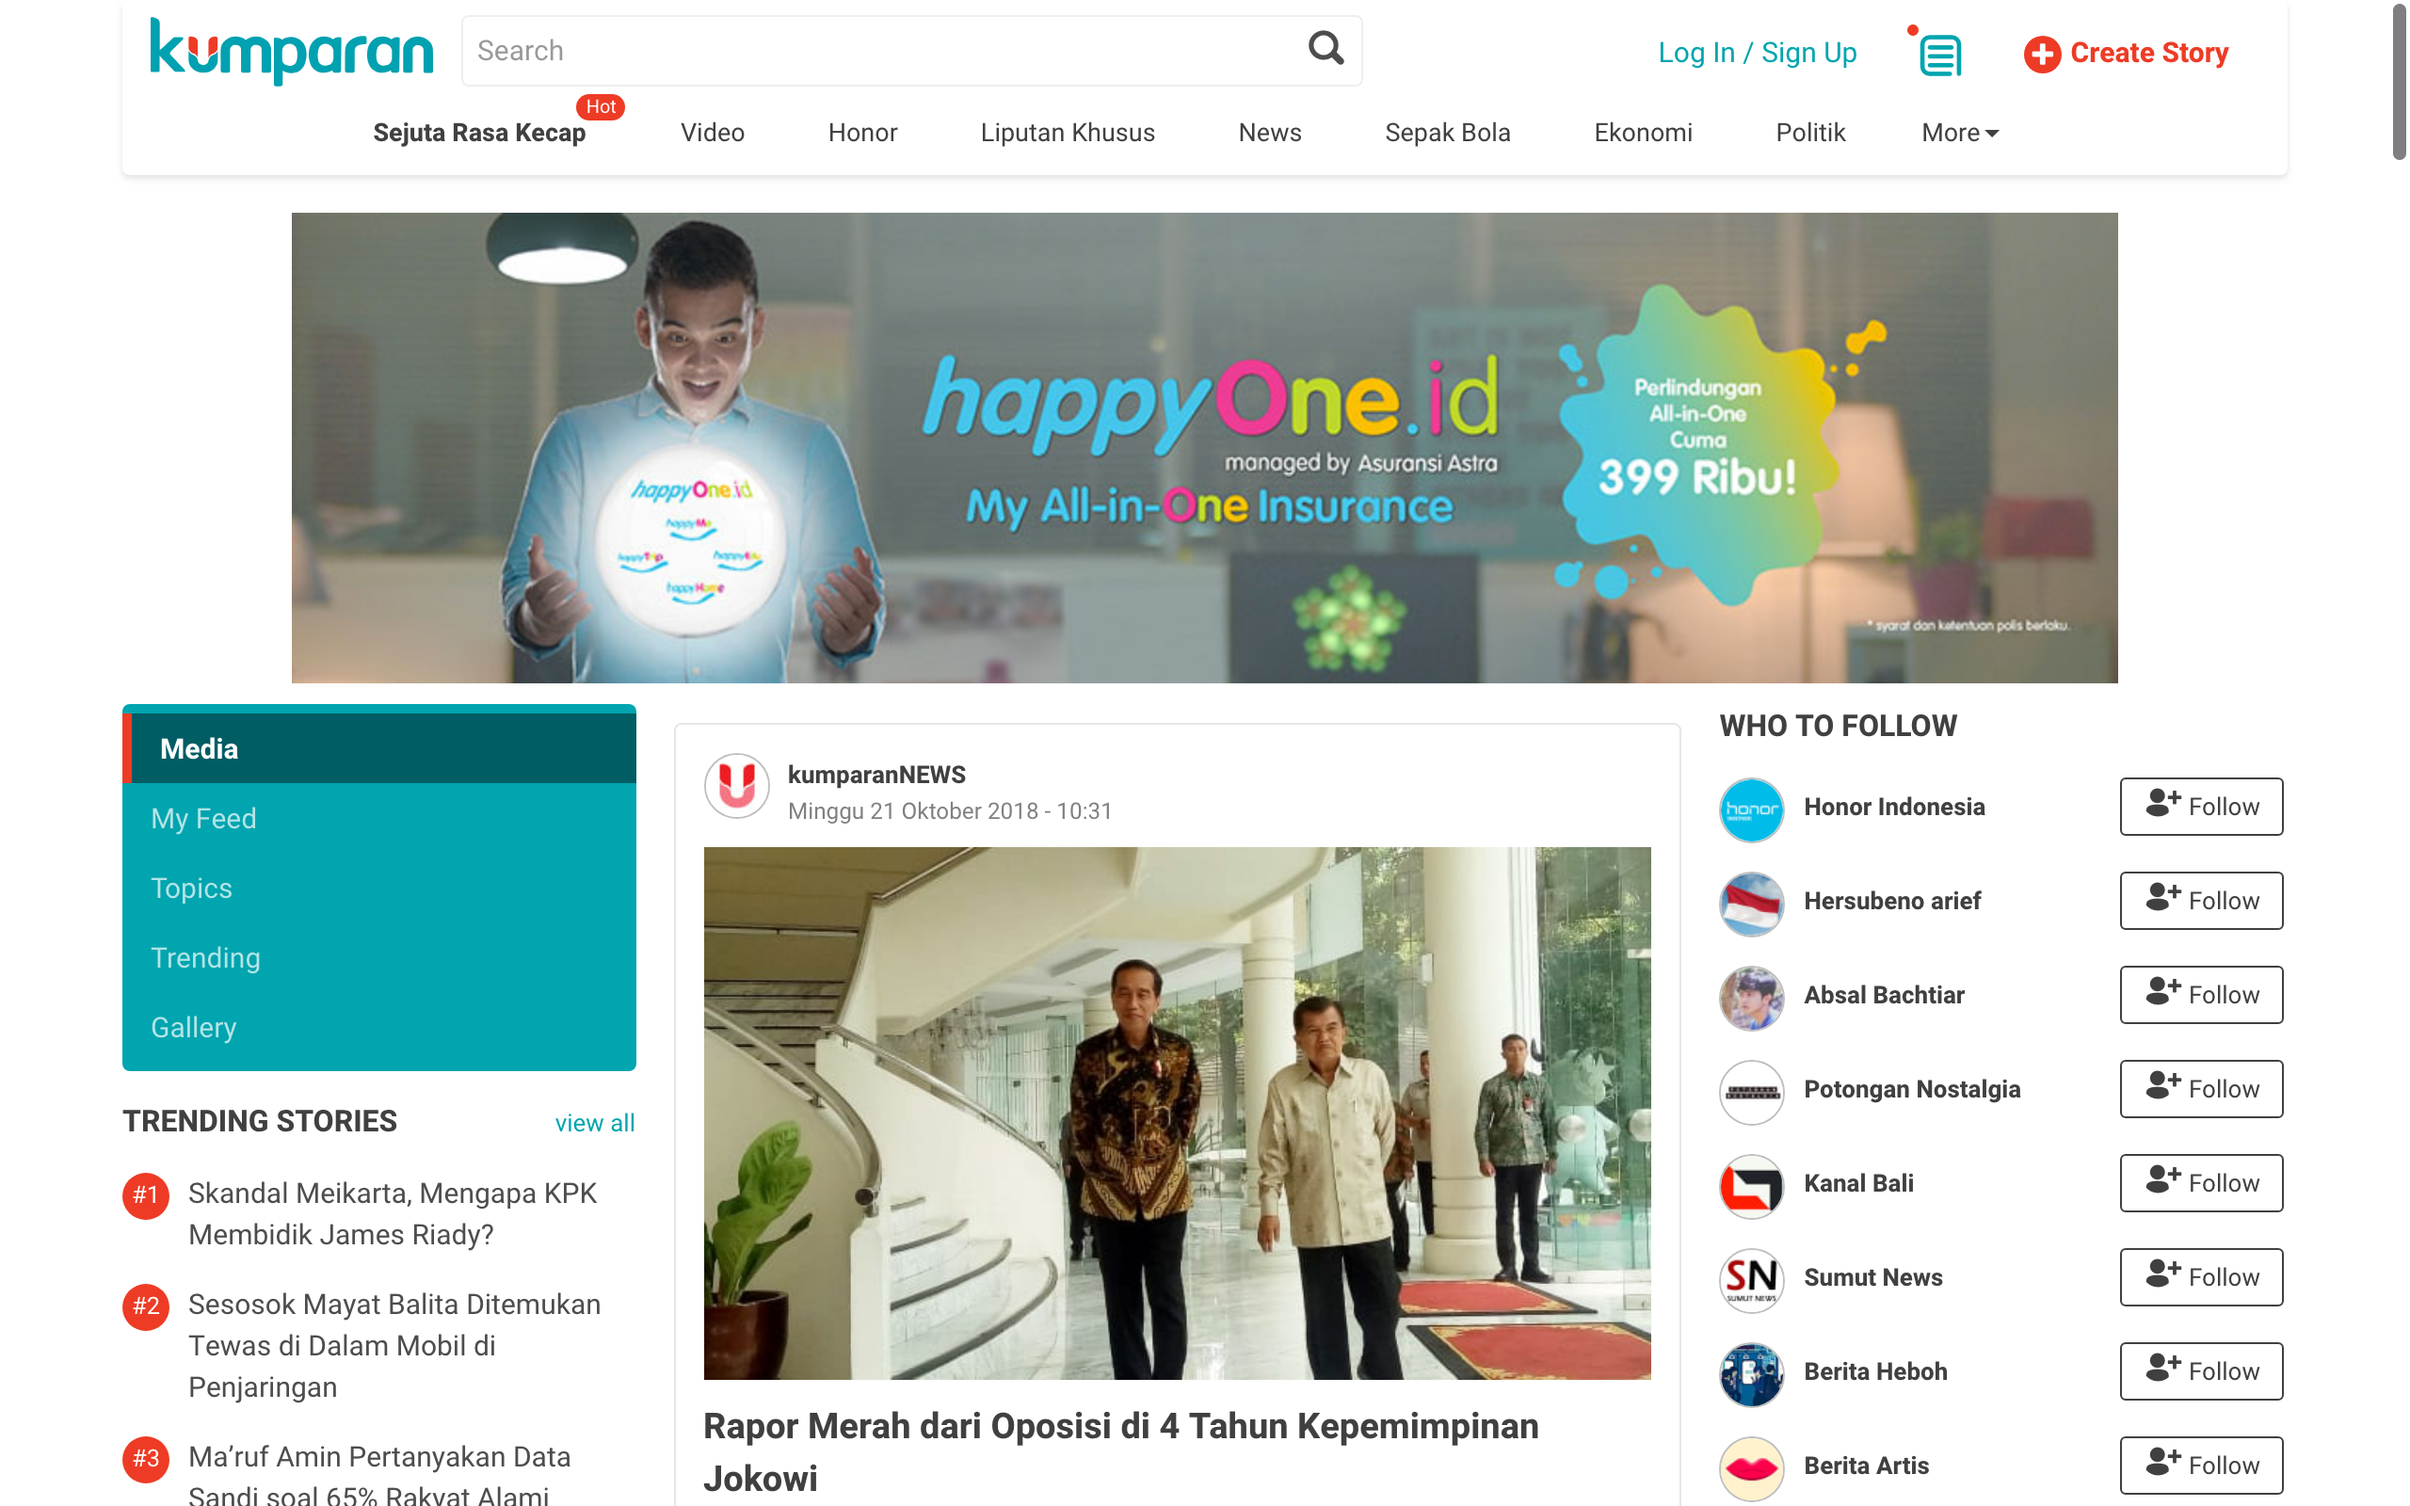
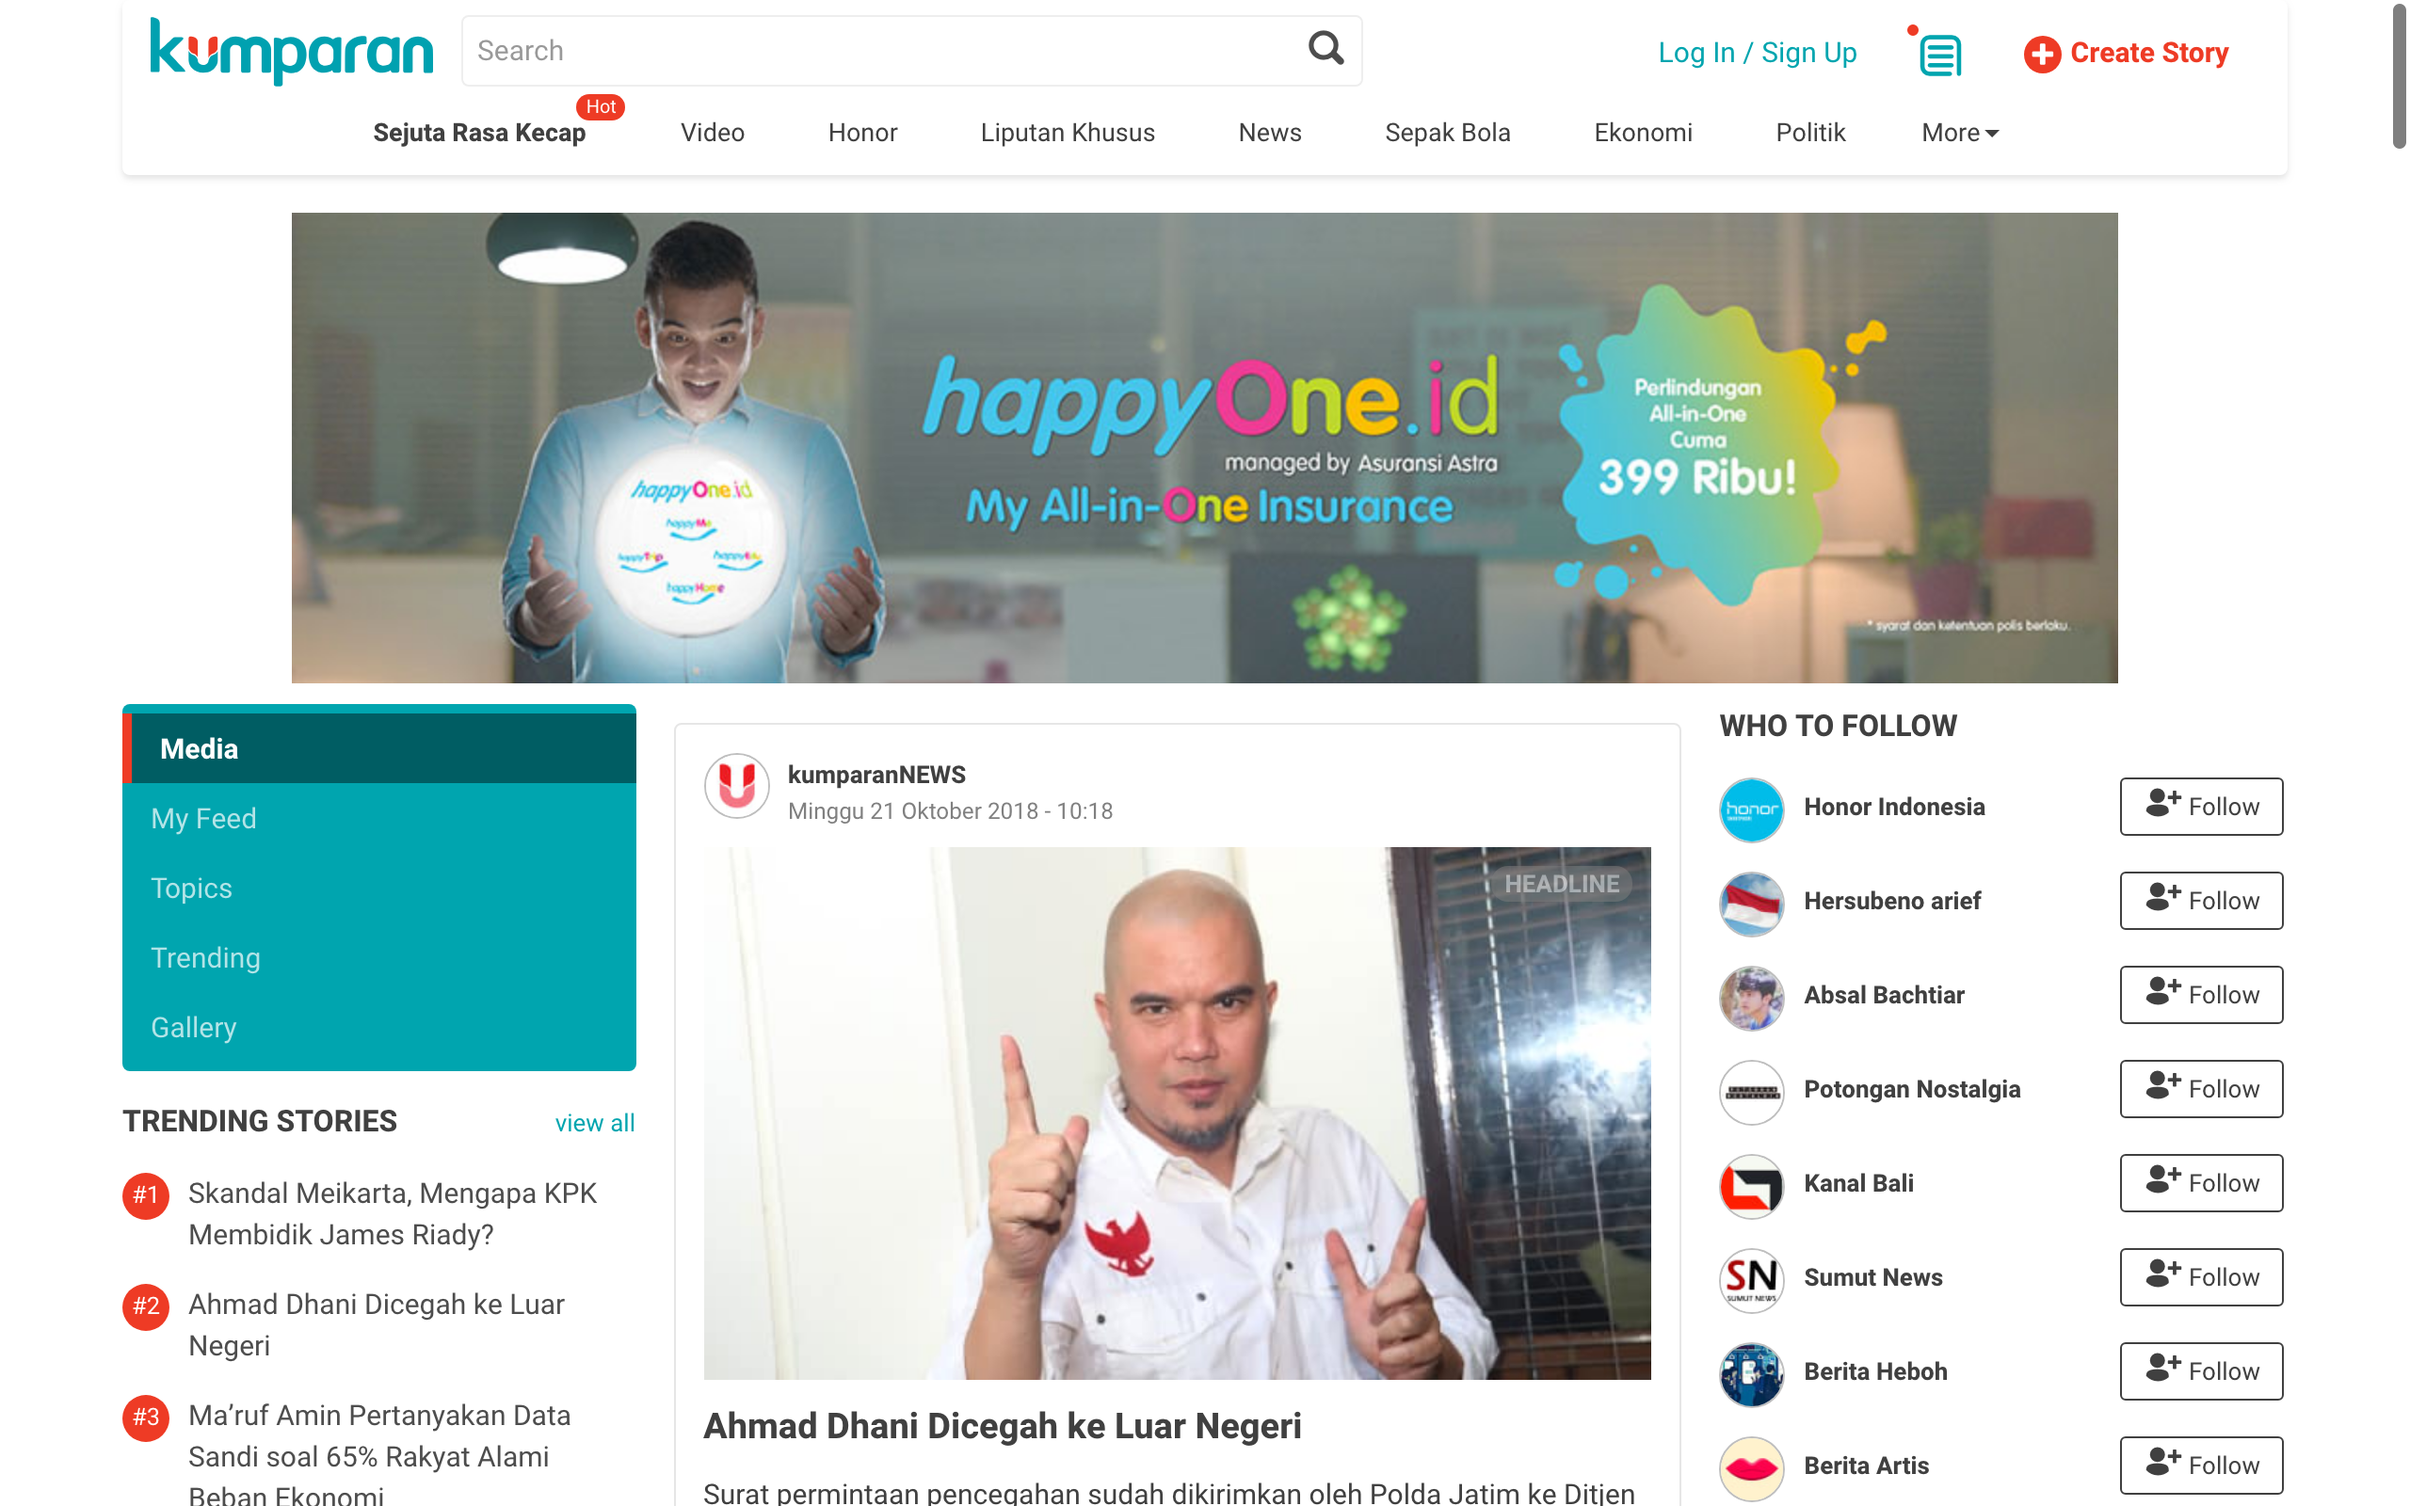
Updated

Changed region(s): [[0.2812, 0.5625, 0.6875, 1.0], [0.0312, 0.8438, 0.25, 1.0]]

diff --git a/Report/Report.html b/Report/Report.html
@@ -189,8 +189,8 @@ function showOutput(id, name) {
 
 <div class='heading'>
 <h1>Automation Testing Report</h1>
-<p class='attribute'><strong>Start Time:</strong> 2018-10-21 10:23:14</p>
-<p class='attribute'><strong>Duration:</strong> 0:05:42.124271</p>
+<p class='attribute'><strong>Start Time:</strong> 2018-10-21 11:28:40</p>
+<p class='attribute'><strong>Duration:</strong> 0:03:49.122757</p>
 <p class='attribute'><strong>Status:</strong> Pass 6</p>
 
 <p class='description'><b></b></p>
@@ -247,7 +247,7 @@ function showOutput(id, name) {
         
 pt1.1: Silakan masukkan kembali sandi Anda
 Kata sandi yang Anda masukkan salah. Lupa Kata Sandi?
-__main__.Test1_Login.test_Login_001: 65.502
+__main__.Test1_Login.test_Login_001: 20.085
 
 
         </pre>
@@ -273,7 +273,7 @@ __main__.Test1_Login.test_Login_001: 65.502
         <pre>
         
 pt1.2: Platform Media Berita Kolaboratif, Terkini Indonesia Hari Ini - Kumparan.com
-__main__.Test1_Login.test_Login_002: 25.071
+__main__.Test1_Login.test_Login_002: 19.716
 
 
         </pre>
@@ -307,7 +307,7 @@ __main__.Test1_Login.test_Login_002: 25.071
         </div>
         <pre>
         
-pt2.1: https://kumparan.com/@kumparannews/gerindra-yakin-koalisi-prabowo-raih-300-kursi-rakyat-berpihak-ke-kami-1540087735840978934
+pt2.1: https://kumparan.com/@kumparannews/ahmad-dhani-dicegah-ke-luar-negeri-1540087735840978938
 RECOMMENDED PROFILES
 Previous
 Honor Indonesia
@@ -317,7 +317,7 @@ Follow
 Victor Kamang
 Follow
 Next
-__main__.Test2_News.test_News_001: 7.818
+__main__.Test2_News.test_News_001: 7.678
 
 
         </pre>
@@ -342,9 +342,9 @@ __main__.Test2_News.test_News_001: 7.818
         </div>
         <pre>
         
-pt2.2: https://kumparan.com/@kumparannews/gerindra-yakin-koalisi-prabowo-raih-300-kursi-rakyat-berpihak-ke-kami-1540087735840978934123x
+pt2.2: https://kumparan.com/@kumparannews/ahmad-dhani-dicegah-ke-luar-negeri-1540087735840978938123x
 Story tidak ditemukan
-__main__.Test2_News.test_News_002: 18.532
+__main__.Test2_News.test_News_002: 17.676
 
 
         </pre>
@@ -378,10 +378,10 @@ __main__.Test2_News.test_News_002: 18.532
         </div>
         <pre>
         
-pt3.1: https://kumparan.com/@kumparanoto/mobil-porsche-berkarat-dilelang-rp-2-3-miliar-1540087735840978936
-https://kumparan.com/@kumparanoto/mobil-porsche-berkarat-dilelang-rp-2-3-miliar-1540087735840978936
+pt3.1: https://kumparan.com/@kumparanhits/sering-di-bully-ricky-cuaca-berhasil-turunkan-berat-badan-20-kg-1540092705132895570
+https://kumparan.com/@kumparanhits/sering-di-bully-ricky-cuaca-berhasil-turunkan-berat-badan-20-kg-1540092705132895570
 Login
-__main__.Test3_Comment.test_Comment_001: 19.331
+__main__.Test3_Comment.test_Comment_001: 20.053
 
 
         </pre>
@@ -406,11 +406,8 @@ __main__.Test3_Comment.test_Comment_001: 19.331
         </div>
         <pre>
         
-pt3.2: Damar Mustiko Aji
-Minggu, 21 Oktober 2018 - 10:28
-News menarik
- 0|Reply
-__main__.Test3_Comment.test_Comment_002: 49.691
+pt3.2: 
+__main__.Test3_Comment.test_Comment_002: 40.264
 
 
         </pre>

diff --git a/TEST_ALL.py b/TEST_ALL.py
@@ -51,7 +51,7 @@ class Test1_Login(unittest.TestCase):#hapus unittest.TestCase to skip
         #driver, logging = NotifPopover(self.driver, "TIDAK")
         self.startTime = time.time()
         #driver, logging, status = LoginRegister(self.driver)
-        driver, logging, status = loginGPlus_Valid(self.driver, "damarresin", "orangsukses")
+        driver, logging, status = loginGPlus_Valid(self.driver, "wondernautest01", "Wonderlabs123")
         print logging
         t = time.time() - self.startTime
         print "%s: %.3f" % (self.id(), t)
@@ -124,7 +124,7 @@ class Test3_Comment(unittest.TestCase):
         #driver, logging = NotifPopover(self.driver, "TIDAK")
         self.startTime = time.time()
         #driver, logging, status = LoginRegister(self.driver)
-        driver, logging, status = loginGPlus_Valid(self.driver, "damarresin", "orangsukses")
+        driver, logging, status = loginGPlus_Valid(self.driver, "wondernautest01", "Wonderlabs123")
         #driver, logging, status = News(self.driver)
         driver, logging, status = Comment(self.driver, "News menarik")
         print logging

diff --git a/README.md b/README.md
@@ -1,25 +1,16 @@
 ### Automation Testing Kumparan.com apps
 
 ### Requirements
-Package          Version
----------------- -------
-EasyProcess      0.2.3  
-pip              18.1   
-PyVirtualDisplay 0.2.1  
-selenium         3.14.1
-setuptools       40.4.3
-urllib3          1.24   
-wheel            0.32.2 
-
-### Arguments
-- $: python test.py [url] [browser] > report.html
-- EX$: python test.py http://kumparan.com Chrome > report.html
-
-#### Note :
-- browser = Chrome / HEADLESS / VM / Default: Chrome
-- Test Report = report.html (HTMLTestRunner)
+- EasyProcess      0.2.3  
+- pip              18.1   
+- PyVirtualDisplay 0.2.1  
+- selenium         3.14.1
+- setuptools       40.4.3
+- urllib3          1.24   
+- wheel            0.32.2
 
 ### Chrome Driver
+- ChromeDriver 2.43
 - directory "../driver"
 - download https://sites.google.com/a/chromium.org/chromedriver/downloads
 
@@ -33,6 +24,10 @@ wheel            0.32.2
 7. Aktifkan env $ source venv/bin/activate
 8. Install requirements $ pip install -r requirements.txt
 9. Run project $ python test.py https://kumparan.com Chrome > report.html
+
+#### Note :
+- browser = Chrome / HEADLESS / VM / Default: Chrome
+- Test Report = Report/Report.html (HTMLTestRunner)
 
 ### Test Case
 ![Capture damar - kumparan test case](Report/testcase.png)
